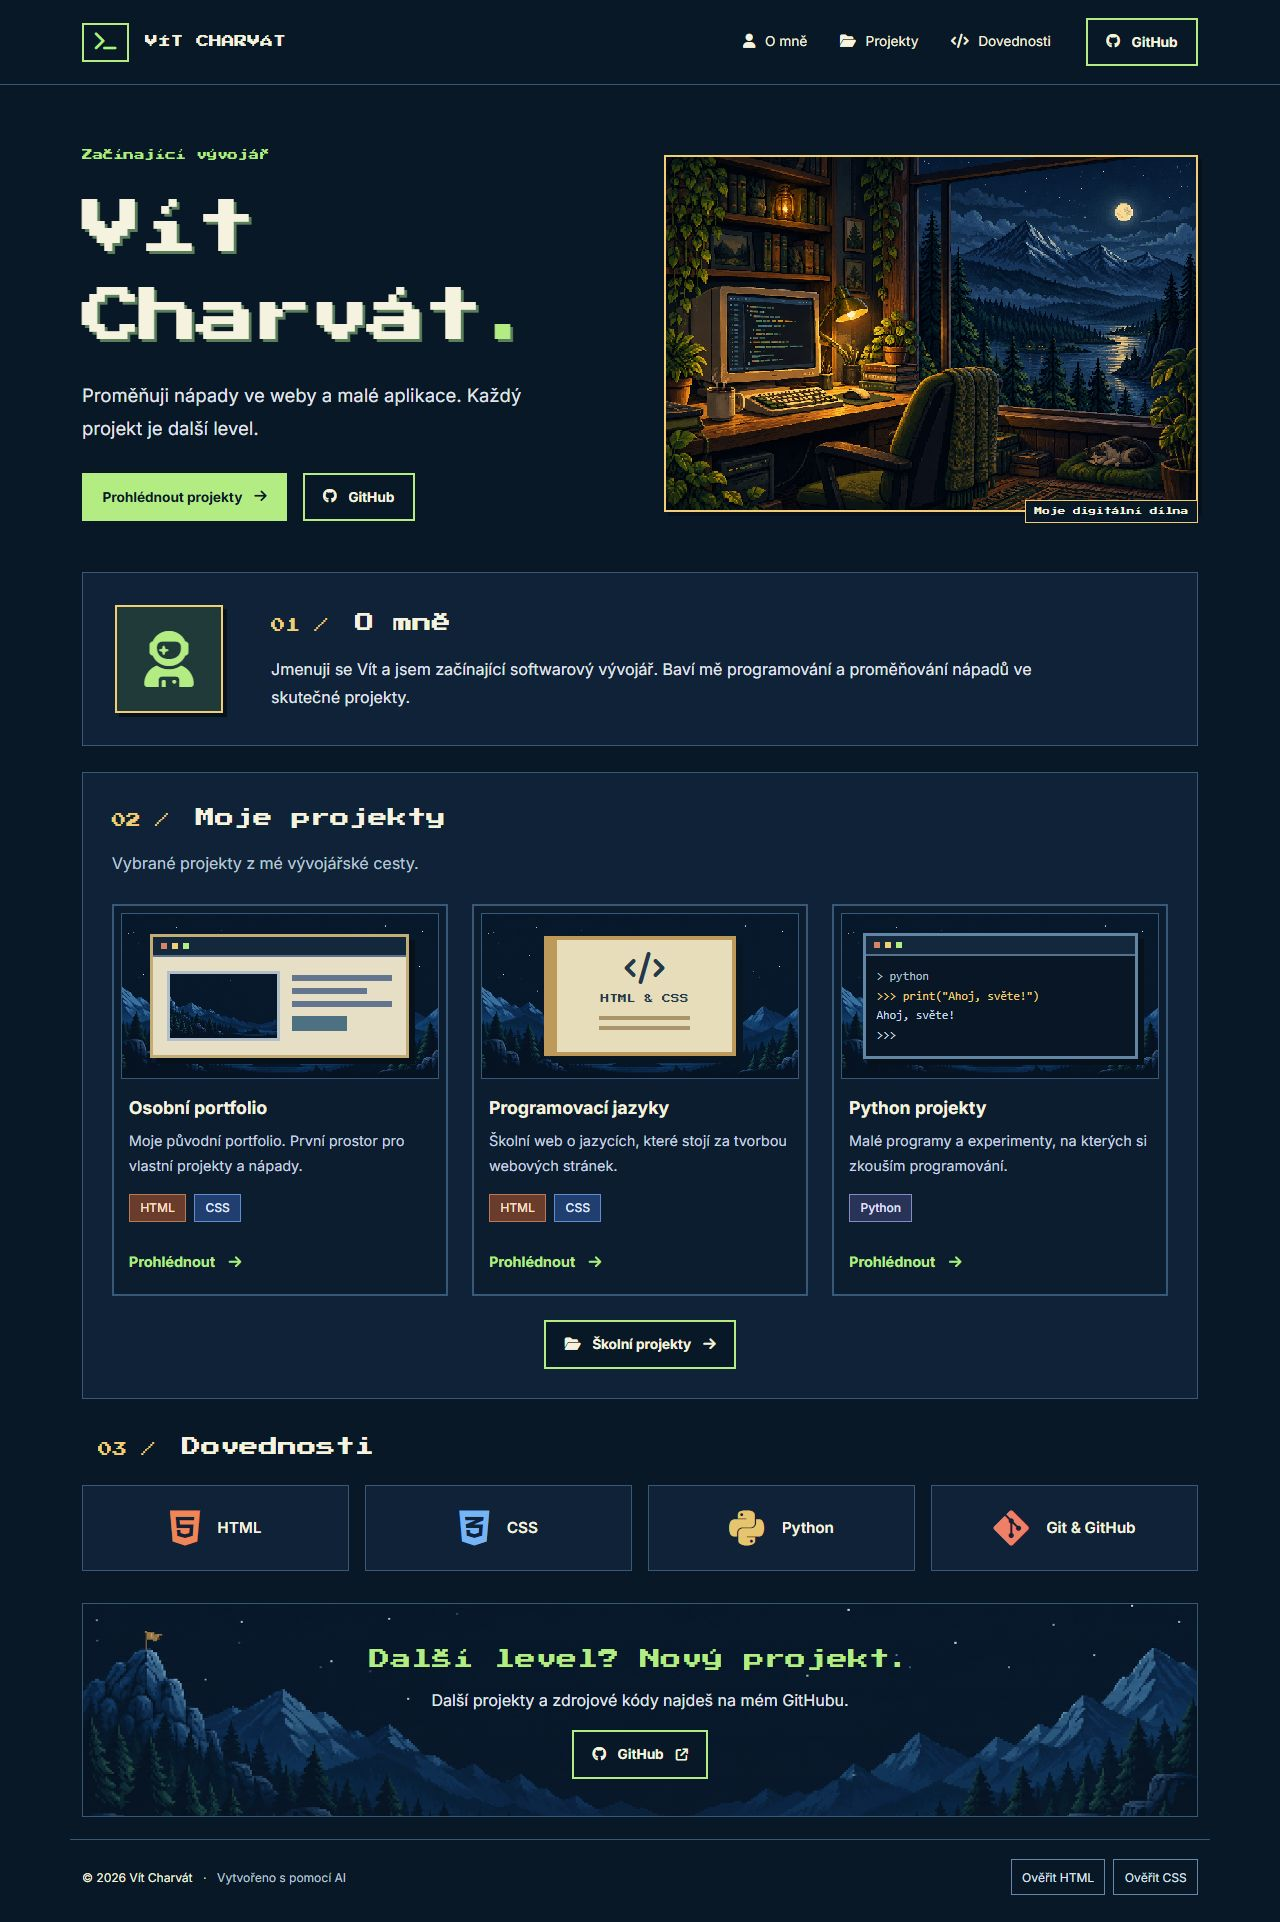
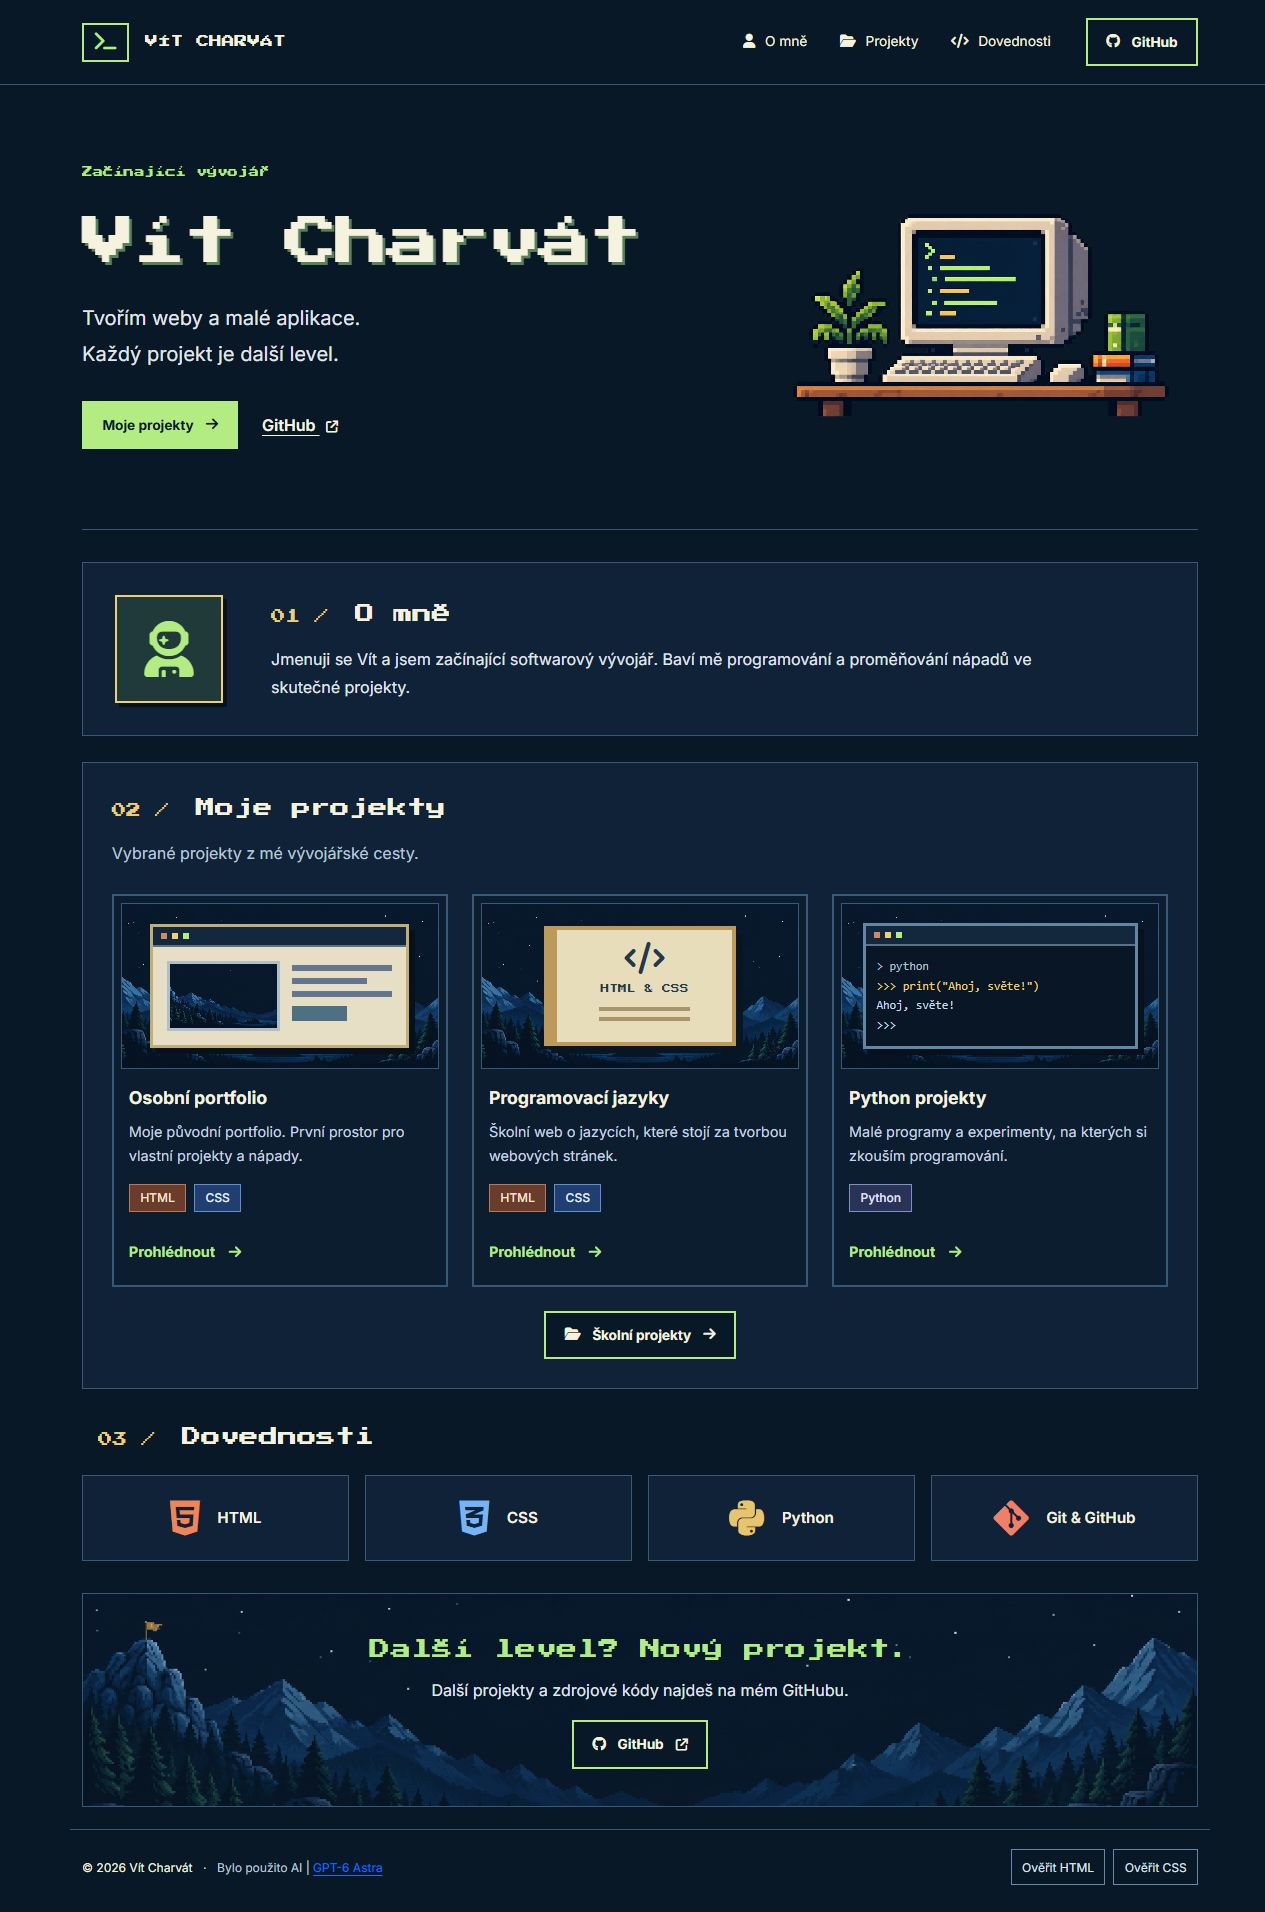
markdown + ai konverzace

diff --git a/skolni-projekty.html b/skolni-projekty.html
@@ -67,10 +67,10 @@
     </main>
     <footer class="site-footer container">
       <div class="d-flex flex-column flex-sm-row align-items-center justify-content-between gap-3">
-        <p class="mb-0">© 2026 Vít Charvát <span class="footer-dot" aria-hidden="true">·</span> <span class="footer-note">Vytvořeno s pomocí AI</span></p>
+        <p class="mb-0">© 2026 Vít Charvát <span class="footer-dot" aria-hidden="true">·</span> <span class="footer-note">Bylo použito AI | <a href="https://chatgpt.com/s/cx_6ac7fca7abec8191a3a4ad97ed4f1198" target="_blank" rel="noopener noreferrer">GPT-6 Astra</a></span></p>
         <div class="d-flex gap-2">
-          <a class="validator-link" href="https://validator.w3.org/#validate_by_upload" target="_blank" rel="noopener noreferrer" aria-label="Ověřit HTML ve W3C validátoru, nová karta">Ověřit HTML</a>
-          <a class="validator-link" href="https://jigsaw.w3.org/css-validator/#validate_by_upload" target="_blank" rel="noopener noreferrer" aria-label="Ověřit CSS ve W3C validátoru, nová karta">Ověřit CSS</a>
+          <a class="validator-link" href="https://validator.w3.org/nu/?doc=https%3A%2F%2Fvitekcharvat.github.io%2F" target="_blank" rel="noopener noreferrer" aria-label="Ověřit HTML ve W3C validátoru, nová karta">Ověřit HTML</a>
+          <a class="validator-link" href="https://jigsaw.w3.org/css-validator/validator?uri=https%3A%2F%2Fvitekcharvat.github.io%2F&amp;profile=css3svg" target="_blank" rel="noopener noreferrer" aria-label="Ověřit CSS ve W3C validátoru, nová karta">Ověřit CSS</a>
         </div>
       </div>
     </footer>

diff --git a/index.html b/index.html
@@ -325,13 +325,13 @@
         <p class="mb-0">
           © 2026 Vít Charvát
           <span class="footer-dot" aria-hidden="true">·</span>
-          <span class="footer-note">Vytvořeno s pomocí AI</span>
+          <span class="footer-note">Bylo použito AI | <a href="https://chatgpt.com/s/cx_6ac7fca7abec8191a3a4ad97ed4f1198" target="_blank" rel="noopener noreferrer">GPT-6 Astra</a></span>
         </p>
-        <!-- Místní soubor nelze validovat přes veřejnou URL. Tyto odkazy otevřou nahrání souboru. -->
+        <!-- Odkazy rovnou ověří zveřejněný web https://vitekcharvat.github.io/. -->
         <div class="d-flex gap-2">
           <a
             class="validator-link"
-            href="https://validator.w3.org/#validate_by_upload"
+            href="https://validator.w3.org/nu/?doc=https%3A%2F%2Fvitekcharvat.github.io%2F"
             target="_blank"
             rel="noopener noreferrer"
             aria-label="Ověřit HTML ve W3C validátoru, nová karta"
@@ -339,7 +339,7 @@
           >
           <a
             class="validator-link"
-            href="https://jigsaw.w3.org/css-validator/#validate_by_upload"
+            href="https://jigsaw.w3.org/css-validator/validator?uri=https%3A%2F%2Fvitekcharvat.github.io%2F&amp;profile=css3svg"
             target="_blank"
             rel="noopener noreferrer"
             aria-label="Ověřit CSS ve W3C validátoru, nová karta"

diff --git a/style.css b/style.css
@@ -338,6 +338,7 @@ h1 {
 }
 .footer-dot { color: var(--green); padding-inline: 0.45rem; }
 .footer-note { color: var(--muted); }
+.footer-note a { color: var(--green); }
 .validator-link {
   padding: 0.4rem 0.65rem;
   color: #dce4ef;

diff --git a/PORTFOLIO.md b/PORTFOLIO.md
@@ -1,0 +1,66 @@
+# Portfolio Víta Charváta
+
+Osobní portfolio začínajícího vývojáře v pixelovém herním stylu. Představuje autora, jeho webové a Python projekty a základní dovednosti.
+
+## Vzhled a obsah
+
+Úvod vychází z druhého, minimalistického mockupu: jméno na jednom řádku, krátké představení, tlačítko Moje projekty, textový odkaz na GitHub a pixelový počítač s průhledným pozadím. Ostatní části zachovávají výraznější herní styl prvního návrhu.
+
+Hlavní stránka obsahuje sekce O mně, Moje projekty a Dovednosti. Odkaz Školní projekty vede na samostatný přehled školních prací. V patičce jsou odkazy na validátory HTML a CSS a uvedení použité AI.
+
+## Technologie
+
+- HTML5: struktura a obsah stránek.
+- Bootstrap 5.3.8, pouze CSS: responzivní mřížka, karty, tlačítka a rozestupy.
+- Vlastní CSS: barvy, pixelový vzhled a jednoduché úpravy pro mobil.
+- Google Fonts: Press Start 2P pro nadpisy, Inter pro běžný text.
+- Font Awesome Free 6.7.2: ikony.
+
+Web nepoužívá JavaScript. CSS zůstává pod limitem 500 řádků a obsahuje české vysvětlující komentáře.
+
+## Spuštění
+
+Otevři `index.html` v prohlížeči. Není potřeba nic instalovat ani sestavovat. Internet je potřeba pro načtení Bootstrapu, fontů a ikon a pro návštěvu externích odkazů.
+
+Případně v této složce spusť:
+
+```powershell
+python -m http.server 8000 --bind 127.0.0.1
+```
+
+Otevři `http://127.0.0.1:8000`. Server ukončíš pomocí Ctrl+C.
+
+## Struktura projektu
+
+| Soubor nebo složka | Účel |
+| --- | --- |
+| `index.html` | Hlavní stránka portfolia. |
+| `skolni-projekty.html` | Přehled školních prací. |
+| `style.css` | Vlastní vzhled s komentáři. |
+| `assets/images/` | Pixelové ilustrace včetně aktuálního počítače. |
+| `assets/navrh/` | Původní schválený návrh. |
+| `assets/nahledy/` | Náhledy hotového webu. |
+| `assets/favicon.svg` | Ikona do záložky prohlížeče. |
+| `assets/OBRAZKY.md` | Původ obrázků a zadání jejich tvorby. |
+| `docs/CSS-PRUVODCE.md` | Vysvětlení složitějšího CSS s příklady. |
+| `docs/` | Také uložené výsledky validace. |
+
+Všechny obrázky jsou uvnitř `assets`. Náhledy v kartách jsou ilustrace vytvořené HTML a CSS, nikoli screenshoty skutečných aplikací.
+
+## Úpravy
+
+Texty a adresy odkazů uprav v HTML. Hlavní barvy jsou v proměnných `:root` na začátku `style.css`. Novou školní práci přidej jako další kartu v `skolni-projekty.html`. Rok v patičce je statický a mění se ručně.
+
+Při automatickém formátování může editor rozepsat krátká CSS pravidla na více řádků. Pokud potřebuješ dodržet limit 500 řádků, po formátování počet zkontroluj.
+
+## Validace a přístupnost
+
+Odkazy Ověřit HTML a Ověřit CSS rovnou spustí W3C validaci adresy `https://vitekcharvat.github.io/` v nové kartě. Kontrolují zveřejněnou verzi webu. CSS validátor používá profil CSS3 SVG.
+
+Stránka má zvýraznění odkazů při ovládání klávesnicí, odkaz Přeskočit na obsah a popisy obrázků. Respektuje nastavení systému pro omezení pohybu.
+
+## Použití AI
+
+Bylo použito AI | [GPT-6 Astra](https://chatgpt.com/s/cx_6ac7fca7abec8191a3a4ad97ed4f1198)
+
+Odkaz vede na veřejně sdílený snímek této konverzace. Sdílený snímek se automaticky neaktualizuje o další zprávy. Pixelové ilustrace vznikly pomocí vestavěného nástroje ImageGen.

diff --git a/README.md b/README.md
@@ -1,6 +1,8 @@
 
 ## Soubory
 
+- `PORTFOLIO.md`: popis portfolia, technologie a návod ke spuštění.
+
 - `index.html`: hlavní portfolio.
 - `skolni-projekty.html`: samostatný přehled školních prací.
 - `style.css`: vlastní vzhled a české komentáře k náročnějším pravidlům.
@@ -32,9 +34,9 @@ Na webu není žádný `<script>`, událostní obsluha ani závislost na JavaScr
 
 ## Validace v patičce
 
-Odkaz **Ověřit HTML** otevře W3C validátor na záložce pro nahrání souboru. Nahraj `index.html`, případně samostatně `skolni-projekty.html`.
+Odkaz **Ověřit HTML** rovnou spustí W3C Nu kontrolu adresy `https://vitekcharvat.github.io/`.
 
-Odkaz **Ověřit CSS** otevře CSS validátor. Nahraj `style.css`. Služba nemůže načíst soubor z tvého počítače ani adresu `localhost`, proto zde nepoužíváme ověřování přes HTTP Referer. Po zveřejnění lze ve validátoru zadat veřejnou adresu stránky. Odkazy samy o sobě nejsou potvrzením, že validace prošla.
+Odkaz **Ověřit CSS** rovnou spustí W3C CSS validátor pro stejnou adresu s profilem CSS3 SVG. Oba odkazy otevírají novou kartu a ověřují aktuálně zveřejněnou verzi webu, nikoli místní soubory.
 
 Bootstrap a Font Awesome jsou cizí knihovny, vlastní pravidla upravuj v `style.css`.
 

diff --git a/assets/OBRAZKY.md b/assets/OBRAZKY.md
@@ -11,7 +11,7 @@ Všechny obrazové soubory jsou uložené pod `assets`, jak požadoval uživatel
 
 Náhledy projektů jsou stylizované ilustrace vytvořené HTML/CSS. Nejde o screenshoty aplikací. Postava v původním návrhu byla v realizaci nahrazena ikonou z Font Awesome, aby nevznikala domnělá podobizna autora.
 
-## Zadání pro pracovní koutek
+## Aktuální podoba portfolia
 
 Aktuální úvod vychází z druhého mockupu; ostatní sekce zachovávají první návrh.
 
